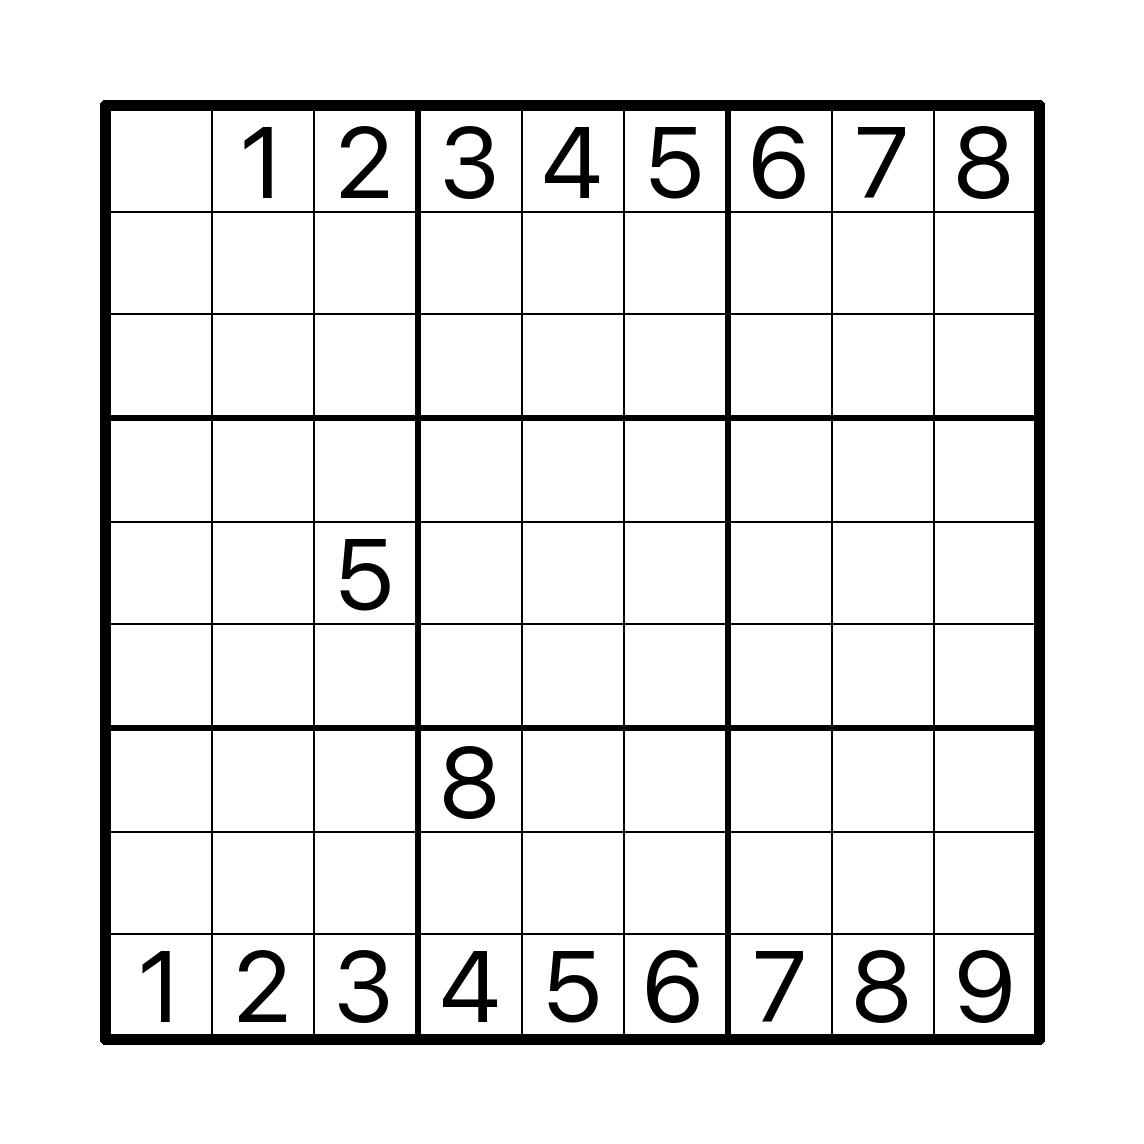
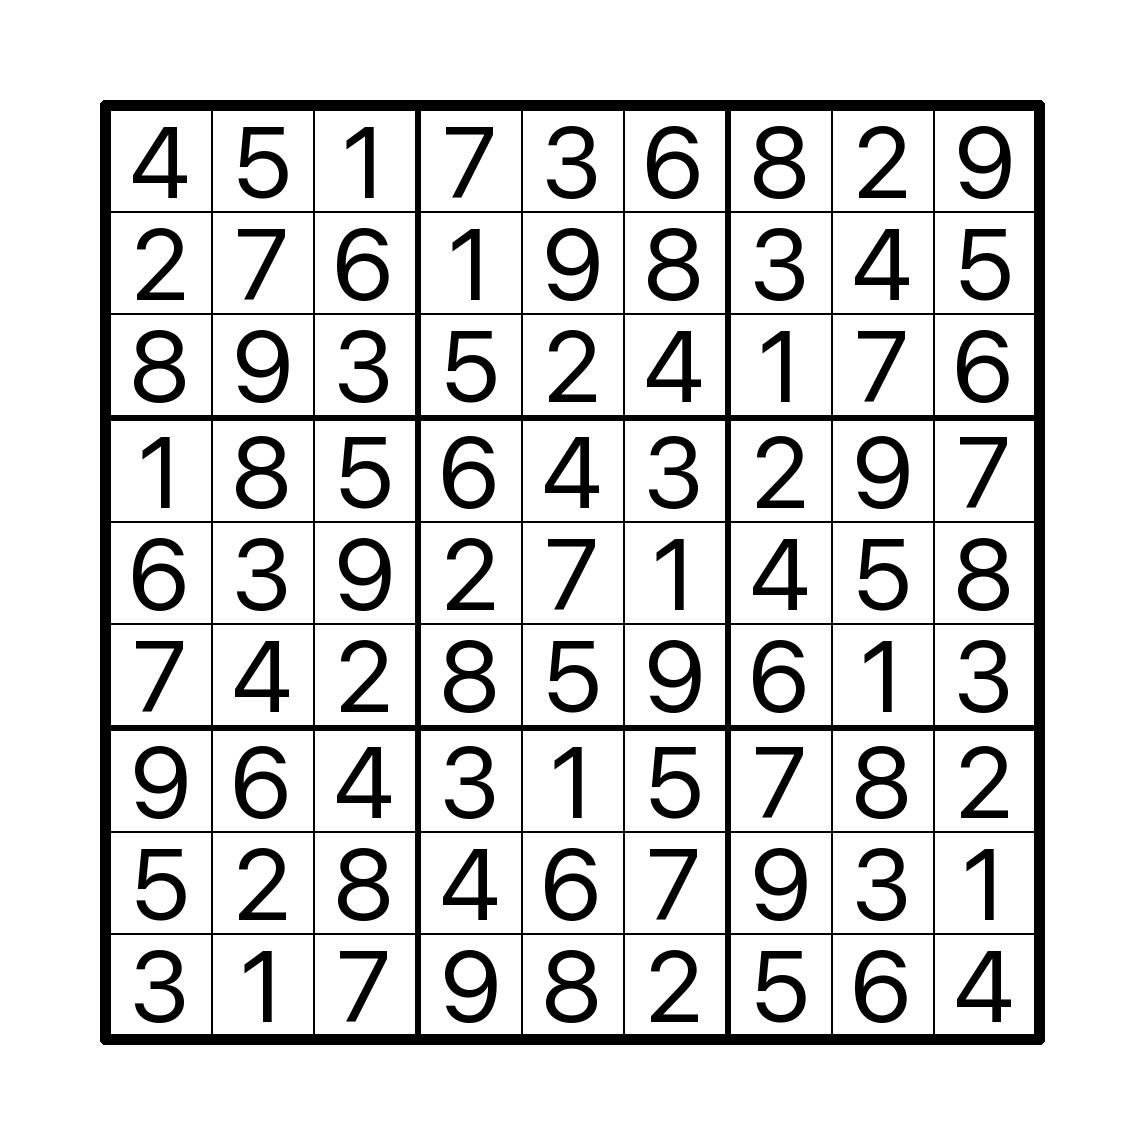
Completed filling answer and puzzle grids - not sure it's working right

diff --git a/gen.py b/gen.py
@@ -5,6 +5,7 @@
 #Backtracking Algorithm - Sudoku Solver - www.101computing.net/backtracking-algorithm-sudoku-solver/
 
 from PIL import Image, ImageDraw, ImageFont
+import random
 
 OutsideLineWidth = 10
 InsideLineWidth = 2
@@ -12,6 +13,8 @@ SubsquareLineWidth = 6
 OutsideMargin = 100
 CellSize = 100
 FontSize = 100
+
+SolutionAttemptCounter = 1
 
 #initialise empty 9 by 9 grids
 AnswerGrid = []
@@ -25,16 +28,16 @@ AnswerGrid.append([0, 0, 0, 0, 0, 0, 0, 0, 0])
 AnswerGrid.append([0, 0, 0, 0, 0, 0, 0, 0, 0])
 AnswerGrid.append([0, 0, 0, 0, 0, 0, 0, 0, 0])
 
-DisplayGrid = []
-DisplayGrid.append([0, 0, 0, 0, 0, 0, 0, 0, 0])
-DisplayGrid.append([0, 0, 0, 0, 0, 0, 0, 0, 0])
-DisplayGrid.append([0, 0, 0, 0, 0, 0, 0, 0, 0])
-DisplayGrid.append([0, 0, 0, 0, 0, 0, 0, 0, 0])
-DisplayGrid.append([0, 0, 0, 0, 0, 0, 0, 0, 0])
-DisplayGrid.append([0, 0, 0, 0, 0, 0, 0, 0, 0])
-DisplayGrid.append([0, 0, 0, 0, 0, 0, 0, 0, 0])
-DisplayGrid.append([0, 0, 0, 0, 0, 0, 0, 0, 0])
-DisplayGrid.append([0, 0, 0, 0, 0, 0, 0, 0, 0])
+PuzzleGrid = []
+PuzzleGrid.append([0, 0, 0, 0, 0, 0, 0, 0, 0])
+PuzzleGrid.append([0, 0, 0, 0, 0, 0, 0, 0, 0])
+PuzzleGrid.append([0, 0, 0, 0, 0, 0, 0, 0, 0])
+PuzzleGrid.append([0, 0, 0, 0, 0, 0, 0, 0, 0])
+PuzzleGrid.append([0, 0, 0, 0, 0, 0, 0, 0, 0])
+PuzzleGrid.append([0, 0, 0, 0, 0, 0, 0, 0, 0])
+PuzzleGrid.append([0, 0, 0, 0, 0, 0, 0, 0, 0])
+PuzzleGrid.append([0, 0, 0, 0, 0, 0, 0, 0, 0])
+PuzzleGrid.append([0, 0, 0, 0, 0, 0, 0, 0, 0])
 
 ############################### If a grid cell contains zero that's equivalent to a blank cell on paper
 
@@ -52,10 +55,9 @@ def GridIsFull( grid ):
 #	Find one zero cell and replace the zero with a legal 1-9 digit
 #	If that was the last zero (IsGridFull returns true), we're done
 #	Otherwise recursively call this same routine to go after the next zero cell
-def FillOneCell( grid ):
+def SolveGrid( grid ):
 	global SolutionAttemptCounter
-	# Find the next empty cell in the grid
-	# ... traverse all 81 cells in the grid
+	# Traverse all cells in the grid to find the next zero-filled cell
 	for i in range( 0, 81 ):
 		# break our traversing index into the corresponding row and column numbers
 		row = i // 9
@@ -109,12 +111,75 @@ def FillOneCell( grid ):
 								# The grid still has at least one zero cell so
 								# recursively call this routine to process the next zero-filled cell and
 								# exit
-								if FillOneCell( grid ):
+								if SolveGrid( grid ):
 									return True
 			# Break out of the "for i in range( 0, 81 )" loop since we've processed one zero-filled cell
 			break
 	# If we get to this spot in the code, our recursive search for a legal, full grid failed, so backtrack to try again
 	# APPARENTLY python returns False by default...
+	grid[ row ][ col ] = 0
+
+numberList = [ 1, 2, 3, 4, 5, 6, 7, 8, 9 ]
+
+# Fill a grid with digits according to the rules of sudoku (unique per column, row and sub-square)
+#  Find the next cell containing zero
+#  Try each digit until:
+#    1) a working digit is found
+#    2) we run out of digits to try
+#  If we run out of digits to try, return failure triggering backtrack by the calling instance
+#  If a working digit is found:
+#    1) if the grid is now filled, we're done - return success
+#    2) if the grid isn't full yet, recursively call this routine to process the next zero-filled cell
+def FillGrid( grid ):
+	global SolutionAttemptCounter
+	# Traverse all cells in the grid to find the next zero-filled cell
+	for i in range( 0, 81 ):
+		row = i // 9
+		col = i % 9
+		if grid[ row ][ col ] == 0:
+			# This is an empty cell, shuffle the digits and try each until one works or they all fail
+			random.shuffle( numberList )
+			for value in numberList:
+				# Is this digit already in this row?
+				if not( value in grid[ row ]):
+					# Is this digit already in this column?
+					if not value in ( grid[ 0 ][ col ], grid[ 1 ][ col ], grid[ 2 ][ col ], grid[ 3 ][ col ], grid[ 4 ][ col ], grid[ 5 ][ col ], grid[ 6 ][ col ], grid[ 7 ][ col ], grid[ 8 ][ col ]):
+						# Is this digit already in this sub-square?
+						# First get a copy of the sub-square in question
+						square = []
+						if row < 3:
+							if col < 3:
+								square = [ grid[ i ][ 0:3 ] for i in range( 0, 3)]
+							elif col < 6:
+								square = [ grid[ i ][ 3:6 ] for i in range( 0, 3)]
+							else:
+								square = [ grid[ i ][ 6:9 ] for i in range( 0, 3)]
+						elif row < 6:
+							if col < 3:
+								square = [ grid[ i ][ 0:3 ] for i in range( 3, 6)]
+							elif col < 6:
+								square = [ grid[ i ][ 3:6 ] for i in range( 3, 6)]
+							else:
+								square = [ grid[ i ][ 6:9 ] for i in range( 3, 6)]
+						else:
+							if col < 3:
+								square = [ grid[ i ][ 0:3 ] for i in range( 6, 9)]
+							elif col < 6:
+								square = [ grid[ i ][ 3:6 ] for i in range( 6, 9)]
+							else:
+								square = [ grid[ i ][ 6:9 ] for i in range( 6, 9)]
+						# Check the digit against the sub-square
+						if not value in ( square[ 0 ] + square[ 1 ] + square[ 2 ]):
+							# OK, this digit is legal for this cell so update the cell
+							grid[ row ][ col ] = value
+							if GridIsFull( grid ):
+								# The grid is full so that was the last cell to fill so we're done
+								return True
+							else:
+								# The grid still has at least one empty cell so recursively call this routine
+								if FillGrid( grid ):
+									return True
+			break
 	grid[ row ][ col ] = 0
 
 def DrawAndSave( grid, filename ):
@@ -373,8 +438,48 @@ def DrawAndSave( grid, filename ):
 
 
 def Main():
-	DrawAndSave( DisplayGrid, "DisplayTest.jpg" )
-	DrawAndSave( AnswerGrid, "AnswerTest.jpg" )
+	# Fill up a grid. That will be the "answer grid".
+	FillGrid( AnswerGrid )
+	# Make the "puzzle grid" by removing numbers from the answer grid
+	# A higher number of attempts should make a more difficult puzzle
+	# First copy the AnswerGrid to the PuzzleGrid
+	for row in range( 0, 9 ):
+		for col in range( 0, 9 ):
+			PuzzleGrid[ row ][ col ] = AnswerGrid[ row ][ col ]
+	# Then make blanks in PuzzleGrid and check each time to see if we've made enough blanks
+	RemainingAttemptsToRemove = 5
+	SolutionAttemptCounter = 1
+	while RemainingAttemptsToRemove > 0:
+		# Select a random cell that is not already empty
+		row = random.randint( 0, 8 )
+		col = random.randint( 0, 8 )
+		while PuzzleGrid[ row ][ col ] == 0:
+			# OK, this cell is already blank so try again
+			row = random.randint( 0, 8 )
+			col = random.randint( 0, 8 )
+		# This is now a non-blank cell so...
+		# 1) save the value in the cell in case we need to back out and replace it
+		backup = PuzzleGrid[ row ][ col ]
+		# 2) set the cell to empty
+		PuzzleGrid[ row ][ col ] = 0
+		# 3) Make a scratch copy of the grid
+		CopyGrid = []
+		for r in range( 0, 9 ):
+			CopyGrid.append([])
+			for c in range( 0, 9 ):
+				CopyGrid[ r ].append(PuzzleGrid[ r ][ c ])
+
+		# Count the number of solutions that this grid has
+		SolutionAttemptCounter = 0
+		SolveGrid( CopyGrid )
+		# If the number of solutions is different from 1 then we need to:
+		# - cancel the change
+		# - put back the value we zero'd out
+		# - make another attempt if allowed
+		RemainingAttemptsToRemove -= 1
+
+	DrawAndSave( PuzzleGrid, "PuzzleGrid.jpg" )
+	DrawAndSave( AnswerGrid, "AnswerGrid.jpg" )
 
 if __name__ == '__main__':
 	Main()
